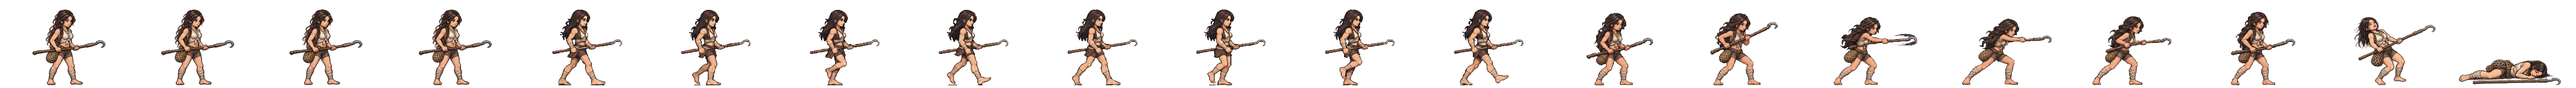
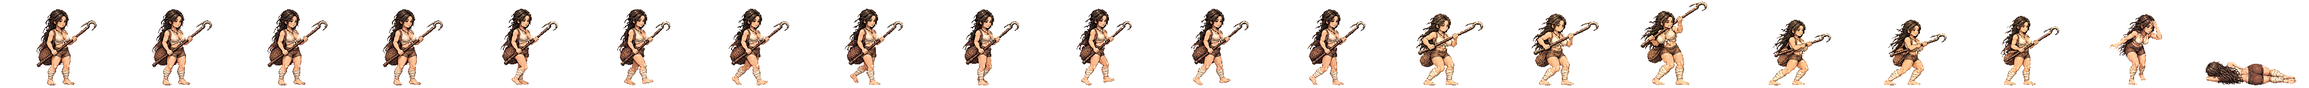
신지 너울 새 전투 띠를 게임에 넣음(서기·걷기·갈고리 장대 찌르기 여덟 칸·쓰러짐·젖은 머리 짜기)
가슴 XL 뼈대로 처음 넣는 장수. 서기·걷기·개성 동작에서 가슴 부피가 서기 장면의 대머리 몸만큼 유지된다.
찌르기 a 는 칸3 앞발이 인형보다 앞이라 한 번 다시, b 는 갈고리가 넓은 칸 밖으로 나가 한 번 다시 그렸다.
하네스 HEROES 에 이번 묶음 장수(너울·허황옥·마한 전사·고래 여왕·말괄량이 장군)를 더함.

Claude-Session: https://claude.ai/code/session_01TRiuN7s6aDfSnaHxrkctmU

Changed region(s): [[0.0, 0.125, 1.0, 0.9688], [0.7188, 0.0312, 0.75, 0.0625]]

diff --git a/src/realm/data/spritePx.ts b/src/realm/data/spritePx.ts
@@ -1,3 +1,3 @@
 /** public/realm/anim-px/manifest.json 의 사본 — tools/sprite-normalize.mjs 가 만든다 (손으로 고치지 말 것). 칸 [가로, 세로] · feet = 발 줄(칸 위에서 y) · bodyPx = 서 있는 몸 키 */
 import { expandManifest } from './sprite-manifest.ts'
-export const SPRITE_PX: Readonly<Record<string, { readonly cell: readonly [number, number]; readonly feet: number; readonly bodyPx: number; readonly kind: 'general' | 'soldier' | 'folk' | 'crowd'; readonly cells: number }>> = expandManifest<{ readonly cell: readonly [number, number]; readonly feet: number; readonly bodyPx: number; readonly kind: 'general' | 'soldier' | 'folk' | 'crowd'; readonly cells: number }>([{"cell":[166,128],"feet":126,"bodyPx":124,"kind":"soldier","cells":20},{"cell":[116,128],"feet":126,"bodyPx":117,"kind":"soldier","cells":20},{"cell":[127,128],"feet":126,"bodyPx":116,"kind":"soldier","cells":20},{"cell":[269,128],"feet":126,"bodyPx":126,"kind":"soldier","cells":20},{"cell":[503,128],"feet":126,"bodyPx":127,"kind":"soldier","cells":20},{"cell":[614,128],"feet":126,"bodyPx":126,"kind":"soldier","cells":20},{"cell":[200,160],"feet":156,"bodyPx":138,"kind":"general","cells":20},{"cell":[208,160],"feet":155,"bodyPx":138,"kind":"general","cells":20},{"cell":[208,160],"feet":154,"bodyPx":138,"kind":"general","cells":20},{"cell":[304,160],"feet":155,"bodyPx":135,"kind":"general","cells":20},{"cell":[224,160],"feet":156,"bodyPx":139,"kind":"general","cells":20},{"cell":[184,160],"feet":156,"bodyPx":138,"kind":"general","cells":20},{"cell":[208,160],"feet":154,"bodyPx":136,"kind":"general","cells":20},{"cell":[240,160],"feet":156,"bodyPx":138,"kind":"general","cells":20},{"cell":[232,160],"feet":156,"bodyPx":138,"kind":"general","cells":20},{"cell":[208,160],"feet":156,"bodyPx":138,"kind":"general","cells":20},{"cell":[168,160],"feet":156,"bodyPx":138,"kind":"general","cells":20},{"cell":[192,160],"feet":156,"bodyPx":138,"kind":"general","cells":20},{"cell":[168,160],"feet":156,"bodyPx":124,"kind":"general","cells":20},{"cell":[216,160],"feet":156,"bodyPx":130,"kind":"general","cells":20},{"cell":[200,160],"feet":156,"bodyPx":116,"kind":"general","cells":20},{"cell":[200,160],"feet":156,"bodyPx":135,"kind":"general","cells":20},{"cell":[280,160],"feet":156,"bodyPx":138,"kind":"general","cells":20},{"cell":[232,160],"feet":155,"bodyPx":138,"kind":"general","cells":20},{"cell":[232,160],"feet":156,"bodyPx":134,"kind":"general","cells":20},{"cell":[144,160],"feet":156,"bodyPx":70,"kind":"general","cells":20},{"cell":[208,160],"feet":156,"bodyPx":70,"kind":"general","cells":20},{"cell":[192,160],"feet":156,"bodyPx":70,"kind":"general","cells":20},{"cell":[240,160],"feet":155,"bodyPx":138,"kind":"general","cells":20},{"cell":[160,160],"feet":156,"bodyPx":135,"kind":"general","cells":20},{"cell":[192,160],"feet":156,"bodyPx":128,"kind":"general","cells":20},{"cell":[224,160],"feet":155,"bodyPx":138,"kind":"general","cells":20},{"cell":[232,160],"feet":156,"bodyPx":139,"kind":"general","cells":20},{"cell":[264,160],"feet":155,"bodyPx":138,"kind":"general","cells":20},{"cell":[216,160],"feet":156,"bodyPx":138,"kind":"general","cells":20},{"cell":[208,160],"feet":156,"bodyPx":134,"kind":"general","cells":20},{"cell":[176,160],"feet":156,"bodyPx":130,"kind":"general","cells":20},{"cell":[248,160],"feet":156,"bodyPx":138,"kind":"general","cells":20},{"cell":[248,160],"feet":155,"bodyPx":138,"kind":"general","cells":20},{"cell":[192,160],"feet":155,"bodyPx":138,"kind":"general","cells":20},{"cell":[192,160],"feet":156,"bodyPx":124,"kind":"general","cells":20},{"cell":[208,160],"feet":154,"bodyPx":131,"kind":"general","cells":20},{"cell":[256,160],"feet":156,"bodyPx":138,"kind":"general","cells":20},{"cell":[232,160],"feet":156,"bodyPx":73,"kind":"general","cells":20},{"cell":[256,160],"feet":155,"bodyPx":138,"kind":"general","cells":20},{"cell":[264,160],"feet":156,"bodyPx":138,"kind":"general","cells":20},{"cell":[224,160],"feet":156,"bodyPx":138,"kind":"general","cells":20},{"cell":[224,160],"feet":156,"bodyPx":128,"kind":"general","cells":20},{"cell":[176,160],"feet":156,"bodyPx":129,"kind":"general","cells":20},{"cell":[208,160],"feet":154,"bodyPx":139,"kind":"general","cells":20},{"cell":[208,160],"feet":156,"bodyPx":132,"kind":"general","cells":20},{"cell":[216,160],"feet":155,"bodyPx":138,"kind":"general","cells":20},{"cell":[184,160],"feet":156,"bodyPx":122,"kind":"general","cells":20},{"cell":[176,160],"feet":156,"bodyPx":138,"kind":"general","cells":20},{"cell":[280,160],"feet":155,"bodyPx":133,"kind":"general","cells":20},{"cell":[176,160],"feet":156,"bodyPx":70,"kind":"general","cells":20},{"cell":[186,128],"feet":126,"bodyPx":127,"kind":"soldier","cells":20},{"cell":[298,128],"feet":126,"bodyPx":126,"kind":"soldier","cells":20},{"cell":[82,128],"feet":126,"bodyPx":114,"kind":"folk","cells":8},{"cell":[134,128],"feet":126,"bodyPx":119,"kind":"soldier","cells":20},{"cell":[380,128],"feet":126,"bodyPx":124,"kind":"soldier","cells":20},{"cell":[114,128],"feet":126,"bodyPx":115,"kind":"soldier","cells":20},{"cell":[122,128],"feet":126,"bodyPx":114,"kind":"soldier","cells":20},{"cell":[254,128],"feet":126,"bodyPx":128,"kind":"soldier","cells":20},{"cell":[438,128],"feet":126,"bodyPx":126,"kind":"soldier","cells":20},{"cell":[88,128],"feet":126,"bodyPx":113,"kind":"folk","cells":8},{"cell":[100,128],"feet":126,"bodyPx":115,"kind":"folk","cells":8},{"cell":[108,128],"feet":126,"bodyPx":115,"kind":"folk","cells":8},{"cell":[63,128],"feet":126,"bodyPx":113,"kind":"folk","cells":8},{"cell":[69,96],"feet":96,"bodyPx":96,"kind":"crowd","cells":1},{"cell":[54,96],"feet":96,"bodyPx":96,"kind":"crowd","cells":1},{"cell":[47,96],"feet":96,"bodyPx":96,"kind":"crowd","cells":1},{"cell":[49,96],"feet":96,"bodyPx":96,"kind":"crowd","cells":1},{"cell":[57,96],"feet":96,"bodyPx":96,"kind":"crowd","cells":1},{"cell":[55,96],"feet":96,"bodyPx":96,"kind":"crowd","cells":1},{"cell":[45,96],"feet":96,"bodyPx":96,"kind":"crowd","cells":1},{"cell":[53,96],"feet":96,"bodyPx":96,"kind":"crowd","cells":1},{"cell":[64,96],"feet":96,"bodyPx":96,"kind":"crowd","cells":1},{"cell":[184,160],"feet":156,"bodyPx":124,"kind":"general","cells":20},{"cell":[184,160],"feet":156,"bodyPx":134,"kind":"general","cells":20},{"cell":[224,160],"feet":156,"bodyPx":133,"kind":"general","cells":20},{"cell":[192,160],"feet":156,"bodyPx":135,"kind":"general","cells":20},{"cell":[184,160],"feet":156,"bodyPx":137,"kind":"general","cells":20},{"cell":[216,160],"feet":156,"bodyPx":134,"kind":"general","cells":20},{"cell":[216,160],"feet":156,"bodyPx":132,"kind":"general","cells":20},{"cell":[288,160],"feet":156,"bodyPx":138,"kind":"general","cells":20},{"cell":[192,160],"feet":156,"bodyPx":118,"kind":"general","cells":20},{"cell":[192,160],"feet":156,"bodyPx":134,"kind":"general","cells":20},{"cell":[192,160],"feet":157,"bodyPx":139,"kind":"general","cells":20},{"cell":[184,160],"feet":156,"bodyPx":128,"kind":"general","cells":20},{"cell":[240,160],"feet":156,"bodyPx":128,"kind":"general","cells":20},{"cell":[184,160],"feet":156,"bodyPx":132,"kind":"general","cells":20},{"cell":[208,160],"feet":156,"bodyPx":123,"kind":"general","cells":20},{"cell":[208,160],"feet":154,"bodyPx":137,"kind":"general","cells":20},{"cell":[176,160],"feet":156,"bodyPx":116,"kind":"general","cells":20},{"cell":[272,160],"feet":156,"bodyPx":138,"kind":"general","cells":20},{"cell":[176,160],"feet":156,"bodyPx":122,"kind":"general","cells":20},{"cell":[232,160],"feet":156,"bodyPx":127,"kind":"general","cells":20},{"cell":[176,160],"feet":156,"bodyPx":137,"kind":"general","cells":20},{"cell":[184,160],"feet":156,"bodyPx":133,"kind":"general","cells":20}],[["axe",0],["bandit-chief",1],["bandit-club",2],["boat",3],["bow",4],["crossbow",5],["gen-adogan",6],["gen-alpyeong",7],["gen-ara",8],["gen-areum",8],["gen-aryeong",9],["gen-bakdal",6],["gen-baram",10],["gen-bdanbi",11],["gen-beom",12],["gen-beombal",11],["gen-beomi",13],["gen-bira",14],["gen-biryu",15],["gen-budeul",16],["gen-byeol",17],["gen-daemusin",18],["gen-daeso",19],["gen-dallae2",11],["gen-dalli",11],["gen-damul",20],["gen-danbi",15],["gen-dangung",17],["gen-darae",21],["gen-dokmudeom",7],["gen-duman",22],["gen-eomni",23],["gen-eureum",24],["gen-g-bow",25],["gen-g-spear",26],["gen-g-sword",27],["gen-gaennae",6],["gen-gamsil",28],["gen-gaon",29],["gen-geota",15],["gen-geumbawi",11],["gen-geumha",30],["gen-goeun",15],["gen-gom",31],["gen-gomok",15],["gen-gureum",28],["gen-guryema",17],["gen-gwaeyu",14],["gen-haebi",8],["gen-haedal",6],["gen-haesol",32],["gen-halla",7],["gen-heo",33],["gen-hneoul",11],["gen-hogong",34],["gen-hojin",15],["gen-horselord",35],["gen-hwalmi",36],["gen-hyeokgeose",17],["gen-hyeopbo",6],["gen-irang",15],["gen-jibaekho",37],["gen-jinha",38],["gen-jita",39],["gen-jumong",40],["gen-keundol",7],["gen-maehwa",41],["gen-maenun",17],["gen-malgalgi",42],["gen-mari",13],["gen-maro",37],["gen-maryeo",15],["gen-mdallae",32],["gen-mir",6],["gen-mount",43],["gen-mulbeom",44],["gen-mulsae",34],["gen-musoe",34],["gen-noeul",8],["gen-nuri",45],["gen-ocheongan",46],["gen-odi",38],["gen-odogan",6],["gen-ogan",17],["gen-oi",47],["gen-olddaeso",24],["gen-onjo",48],["gen-pidogan",15],["gen-sagong",49],["gen-sdallae",6],["gen-sincheongan",34],["gen-singwigan",34],["gen-sinneoul",23],["gen-sobeol",23],["gen-soebi",6],["gen-soebo",50],["gen-soenun",37],["gen-sogeumbi",51],["gen-songbi",46],["gen-songyang",52],["gen-sori",53],["gen-soseono",54],["gen-suro",17],["gen-tahae",6],["gen-tneoul",46],["gen-w-bow",25],["gen-w-spear",55],["gen-waechief",15],["gen-wan",34],["gen-yeodogan",15],["gen-yucheongan",15],["gen-yusugan",37],["horse",56],["marine",57],["migrant",58],["militia",59],["pike",60],["pirate-captain",61],["pirate-sword",62],["shield",63],["spear",64],["villager-builder",65],["villager-farmer",66],["villager-porter",67],["villager-woman",68],["crowd-b1",69],["crowd-b2",70],["crowd-b3",71],["crowd-b4",72],["crowd-b5",73],["crowd-b6",74],["crowd-f1",69],["crowd-f2",74],["crowd-f3",75],["crowd-f4",76],["crowd-f5",69],["crowd-f6",77],["gen-dalbit",15],["gen-base-g-07-drunk-warrior",17],["gen-base-g-40-anya-adan",15],["gen-base-w-13-young-archer",8],["gen-base-g-03-sea-trader",13],["gen-base-w-10-pirate-captain",49],["gen-base-w-64-miri-dallae",49],["gen-base-g-41-goja-bau",13],["gen-base-g-42-dokro-garam",45],["gen-base-g-09-farmer-conscript",34],["gen-base-w-02-goguryeo-lady",34],["gen-base-w-17-mahan-pearl-diver",8],["gen-base-g-17-saro-isageum",50],["gen-base-g-18-daegaya-king",78],["gen-base-g-35-dabeol-dalgu",15],["gen-base-g-19-sabeol-veteran",34],["gen-base-w-23-usisan-whale-queen",34],["gen-base-g-36-gammun-gamdol",46],["gen-base-g-20-samul-sea-lord",42],["gen-base-g-37-eumjeup-jeup",11],["gen-base-g-38-chopal-palmae",17],["gen-base-w-75-daegaya-soemoe",17],["gen-base-g-45-dabeol-deulgae",11],["gen-base-g-04-jinhan-giant",15],["gen-base-g-08-veteran",15],["gen-base-w-18-jinhan-salt-widow",15],["gen-base-w-12-court-dancer",79],["gen-base-w-83-gyeonji-beodeul",80],["gen-base-w-05-baekje-queen",81],["gen-base-w-21-baekje-court-dancer",11],["gen-base-g-01-master-smith",82],["gen-base-g-93-jomun-solgae",36],["gen-base-g-57-bihwa-neup",13],["gen-base-w-72-eumjeup-beol",15],["gen-base-w-102-garak-dana",34],["gen-base-g-68-baekje-onnuri",15],["gen-base-w-27-mokji-jinha",6],["gen-base-g-22-ungcheon-gomnae",6],["gen-base-g-23-sangdang-soedal",15],["gen-base-g-24-wansan-onsan",6],["gen-base-g-25-balla-keunmoe",34],["gen-base-g-61-heomcheuk-bawi",34],["gen-base-g-88-wander-soeul",46],["gen-base-w-14-feast-spy",6],["gen-base-g-12-silla-youth",83],["gen-base-w-08-mahan-warrior",13],["gen-base-g-62-beonye-hanul",13],["gen-base-g-63-heomcheuk-beogeum",15],["gen-base-g-84-wander-seoneul",15],["gen-base-w-50-siljik-mulga",34],["gen-base-g-46-uga-nureongso",34],["gen-base-w-80-usan-gangchi",13],["gen-base-g-47-guga-sanyanggae",34],["gen-base-w-76-gampyeong-baetsagong",37],["gen-base-g-05-mahan-chieftain",84],["gen-base-g-58-usan-uhae",15],["gen-base-g-27-maek-maekdol",15],["gen-base-w-53-hwanna-gabi",16],["gen-base-w-29-golpo-janmul",37],["gen-base-g-53-baekje-haeru",6],["gen-base-w-71-yeonna-neoul",13],["gen-base-w-79-yangmaek-solmae",34],["gen-base-w-34-chopal-deulme",45],["gen-base-g-44-maga-malgup",85],["gen-base-w-31-dabeol-dalbit",49],["gen-base-g-51-biryuna-mulgyeol",46],["gen-base-g-48-gwanna-musoe",15],["gen-base-g-32-uga-sodu",14],["gen-base-g-49-goguryeo-sona",86],["gen-base-g-30-gwanna-soemoe",46],["gen-base-g-52-tamna-oreum",11],["gen-base-g-29-yeonna-myeongsol",40],["gen-base-w-56-dongokjeo-sogeum",87],["gen-base-g-54-mokji-mahan",14],["gen-base-g-33-jeoga-metdol",17],["gen-base-w-36-baekje-maena",17],["gen-base-w-38-sangdang-bulmae",6],["gen-base-w-39-gosaburi-galmae",88],["gen-base-w-40-mujin-munui",50],["gen-base-w-41-hwanna-beodeul",89],["gen-base-w-43-uga-nuri",42],["gen-base-w-45-tamna-oreumbi",11],["gen-base-g-60-golbeol-golgae",11],["gen-base-g-61-apdok-ap",34],["gen-base-g-62-gammun-gamnamu",6],["gen-base-g-63-chopal-yeoul",37],["gen-base-g-64-michuhol-sogeumkkun",13],["gen-base-g-65-sangdang-soemangchi",46],["gen-base-g-66-geonma-malbalgup",90],["gen-base-g-67-gosaburi-buri",91],["gen-base-g-68-mujin-bitgoeul",11],["gen-base-g-69-goryong-yong",46],["gen-base-g-70-siljik-pado",13],["gen-base-w-81-byeokjin-byeolbit",14],["gen-base-w-46-geonma-maru",37],["gen-base-w-48-mujin-mudeung",13],["gen-base-g-26-gampyeong-gaetbeol",14],["gen-base-g-60-eupcha-hangyeol",92],["gen-base-g-15-shaman-man",34],["gen-base-g-85-wander-ure",37],["gen-base-g-43-hwanna-amnok",15],["gen-base-g-50-bullae-gwaha",81],["gen-base-g-55-saro-bakdal",15],["gen-base-g-56-haseulla-gwahama",6],["gen-base-w-06-buyeo-huntress",93],["gen-base-w-22-dongye-tiger-huntress",8],["gen-base-w-25-bihwa-priestess",34],["gen-base-w-24-apdok-queen",11],["gen-base-w-61-iseo-sinae",15],["gen-base-w-26-iseo-tomboy-general",45],["gen-base-g-59-yangmaek-maekson",94],["gen-aw1-haebi",46],["gen-aw1-soseono",95],["gen-aw1-gamsil",11],["gen-aw1-mir",53],["gen-aw1-dangung",6],["gen-aw1-ara",46],["gen-aw1-jumong",96],["gen-aw1-onjo",97],["gen-aw1-base-w-83-gyeonji-beodeul",17],["gen-aw1-heo",45],["gen-aw1-base-g-38-chopal-palmae",6],["gen-aw1-base-w-25-bihwa-priestess",79],["gen-aw1-sori",16],["gen-aw1-gomok",6],["gen-aw1-irang",17],["gen-aw1-budeul",16],["gen-aw1-gom",13],["gen-aw1-sdallae",6],["gen-aw1-base-w-13-young-archer",6],["gen-aw1-base-w-36-baekje-maena",98],["gen-aw1-base-g-09-farmer-conscript",45],["gen-aw1-base-w-02-goguryeo-lady",99],["gen-aw1-haedal",11],["gen-aw1-hogong",6],["gen-aw1-maehwa",53],["gen-aw1-base-w-06-buyeo-huntress",14],["gen-aw1-base-w-08-mahan-warrior",46],["gen-aw1-base-w-29-golpo-janmul",46],["gen-aw1-base-w-31-dabeol-dalbit",17],["gen-aw1-base-w-38-sangdang-bulmae",16],["gen-aw1-bira",34],["gen-aw1-base-w-53-hwanna-gabi",16],["gen-aw1-base-w-56-dongokjeo-sogeum",53],["gen-aw1-base-w-72-eumjeup-beol",17],["gen-aw1-bdanbi",16],["gen-aw1-beom",11],["gen-aw1-beombal",11],["gen-aw1-byeol",17],["gen-aw1-dalli",53],["gen-aw1-malgalgi",37],["gen-aw1-sincheongan",34]])
+export const SPRITE_PX: Readonly<Record<string, { readonly cell: readonly [number, number]; readonly feet: number; readonly bodyPx: number; readonly kind: 'general' | 'soldier' | 'folk' | 'crowd'; readonly cells: number }>> = expandManifest<{ readonly cell: readonly [number, number]; readonly feet: number; readonly bodyPx: number; readonly kind: 'general' | 'soldier' | 'folk' | 'crowd'; readonly cells: number }>([{"cell":[166,128],"feet":126,"bodyPx":124,"kind":"soldier","cells":20},{"cell":[116,128],"feet":126,"bodyPx":117,"kind":"soldier","cells":20},{"cell":[127,128],"feet":126,"bodyPx":116,"kind":"soldier","cells":20},{"cell":[269,128],"feet":126,"bodyPx":126,"kind":"soldier","cells":20},{"cell":[503,128],"feet":126,"bodyPx":127,"kind":"soldier","cells":20},{"cell":[614,128],"feet":126,"bodyPx":126,"kind":"soldier","cells":20},{"cell":[200,160],"feet":156,"bodyPx":138,"kind":"general","cells":20},{"cell":[208,160],"feet":155,"bodyPx":138,"kind":"general","cells":20},{"cell":[208,160],"feet":154,"bodyPx":138,"kind":"general","cells":20},{"cell":[304,160],"feet":155,"bodyPx":135,"kind":"general","cells":20},{"cell":[224,160],"feet":156,"bodyPx":139,"kind":"general","cells":20},{"cell":[184,160],"feet":156,"bodyPx":138,"kind":"general","cells":20},{"cell":[208,160],"feet":154,"bodyPx":136,"kind":"general","cells":20},{"cell":[240,160],"feet":156,"bodyPx":138,"kind":"general","cells":20},{"cell":[232,160],"feet":156,"bodyPx":138,"kind":"general","cells":20},{"cell":[208,160],"feet":156,"bodyPx":138,"kind":"general","cells":20},{"cell":[168,160],"feet":156,"bodyPx":138,"kind":"general","cells":20},{"cell":[192,160],"feet":156,"bodyPx":138,"kind":"general","cells":20},{"cell":[168,160],"feet":156,"bodyPx":124,"kind":"general","cells":20},{"cell":[216,160],"feet":156,"bodyPx":130,"kind":"general","cells":20},{"cell":[200,160],"feet":156,"bodyPx":116,"kind":"general","cells":20},{"cell":[200,160],"feet":156,"bodyPx":135,"kind":"general","cells":20},{"cell":[280,160],"feet":156,"bodyPx":138,"kind":"general","cells":20},{"cell":[232,160],"feet":155,"bodyPx":138,"kind":"general","cells":20},{"cell":[232,160],"feet":156,"bodyPx":134,"kind":"general","cells":20},{"cell":[144,160],"feet":156,"bodyPx":70,"kind":"general","cells":20},{"cell":[208,160],"feet":156,"bodyPx":70,"kind":"general","cells":20},{"cell":[192,160],"feet":156,"bodyPx":70,"kind":"general","cells":20},{"cell":[240,160],"feet":155,"bodyPx":138,"kind":"general","cells":20},{"cell":[160,160],"feet":156,"bodyPx":135,"kind":"general","cells":20},{"cell":[192,160],"feet":156,"bodyPx":128,"kind":"general","cells":20},{"cell":[224,160],"feet":155,"bodyPx":138,"kind":"general","cells":20},{"cell":[232,160],"feet":156,"bodyPx":139,"kind":"general","cells":20},{"cell":[264,160],"feet":155,"bodyPx":138,"kind":"general","cells":20},{"cell":[216,160],"feet":156,"bodyPx":138,"kind":"general","cells":20},{"cell":[208,160],"feet":156,"bodyPx":134,"kind":"general","cells":20},{"cell":[176,160],"feet":156,"bodyPx":130,"kind":"general","cells":20},{"cell":[248,160],"feet":156,"bodyPx":138,"kind":"general","cells":20},{"cell":[248,160],"feet":155,"bodyPx":138,"kind":"general","cells":20},{"cell":[192,160],"feet":155,"bodyPx":138,"kind":"general","cells":20},{"cell":[192,160],"feet":156,"bodyPx":124,"kind":"general","cells":20},{"cell":[208,160],"feet":154,"bodyPx":131,"kind":"general","cells":20},{"cell":[256,160],"feet":156,"bodyPx":138,"kind":"general","cells":20},{"cell":[232,160],"feet":156,"bodyPx":73,"kind":"general","cells":20},{"cell":[256,160],"feet":155,"bodyPx":138,"kind":"general","cells":20},{"cell":[264,160],"feet":156,"bodyPx":138,"kind":"general","cells":20},{"cell":[224,160],"feet":156,"bodyPx":138,"kind":"general","cells":20},{"cell":[224,160],"feet":156,"bodyPx":128,"kind":"general","cells":20},{"cell":[176,160],"feet":156,"bodyPx":129,"kind":"general","cells":20},{"cell":[208,160],"feet":154,"bodyPx":139,"kind":"general","cells":20},{"cell":[208,160],"feet":156,"bodyPx":132,"kind":"general","cells":20},{"cell":[216,160],"feet":155,"bodyPx":138,"kind":"general","cells":20},{"cell":[184,160],"feet":156,"bodyPx":122,"kind":"general","cells":20},{"cell":[176,160],"feet":156,"bodyPx":138,"kind":"general","cells":20},{"cell":[280,160],"feet":155,"bodyPx":133,"kind":"general","cells":20},{"cell":[176,160],"feet":156,"bodyPx":70,"kind":"general","cells":20},{"cell":[186,128],"feet":126,"bodyPx":127,"kind":"soldier","cells":20},{"cell":[298,128],"feet":126,"bodyPx":126,"kind":"soldier","cells":20},{"cell":[82,128],"feet":126,"bodyPx":114,"kind":"folk","cells":8},{"cell":[134,128],"feet":126,"bodyPx":119,"kind":"soldier","cells":20},{"cell":[380,128],"feet":126,"bodyPx":124,"kind":"soldier","cells":20},{"cell":[114,128],"feet":126,"bodyPx":115,"kind":"soldier","cells":20},{"cell":[122,128],"feet":126,"bodyPx":114,"kind":"soldier","cells":20},{"cell":[254,128],"feet":126,"bodyPx":128,"kind":"soldier","cells":20},{"cell":[438,128],"feet":126,"bodyPx":126,"kind":"soldier","cells":20},{"cell":[88,128],"feet":126,"bodyPx":113,"kind":"folk","cells":8},{"cell":[100,128],"feet":126,"bodyPx":115,"kind":"folk","cells":8},{"cell":[108,128],"feet":126,"bodyPx":115,"kind":"folk","cells":8},{"cell":[63,128],"feet":126,"bodyPx":113,"kind":"folk","cells":8},{"cell":[69,96],"feet":96,"bodyPx":96,"kind":"crowd","cells":1},{"cell":[54,96],"feet":96,"bodyPx":96,"kind":"crowd","cells":1},{"cell":[47,96],"feet":96,"bodyPx":96,"kind":"crowd","cells":1},{"cell":[49,96],"feet":96,"bodyPx":96,"kind":"crowd","cells":1},{"cell":[57,96],"feet":96,"bodyPx":96,"kind":"crowd","cells":1},{"cell":[55,96],"feet":96,"bodyPx":96,"kind":"crowd","cells":1},{"cell":[45,96],"feet":96,"bodyPx":96,"kind":"crowd","cells":1},{"cell":[53,96],"feet":96,"bodyPx":96,"kind":"crowd","cells":1},{"cell":[64,96],"feet":96,"bodyPx":96,"kind":"crowd","cells":1},{"cell":[184,160],"feet":156,"bodyPx":124,"kind":"general","cells":20},{"cell":[184,160],"feet":156,"bodyPx":134,"kind":"general","cells":20},{"cell":[224,160],"feet":156,"bodyPx":133,"kind":"general","cells":20},{"cell":[192,160],"feet":156,"bodyPx":135,"kind":"general","cells":20},{"cell":[184,160],"feet":156,"bodyPx":137,"kind":"general","cells":20},{"cell":[216,160],"feet":156,"bodyPx":134,"kind":"general","cells":20},{"cell":[216,160],"feet":156,"bodyPx":132,"kind":"general","cells":20},{"cell":[288,160],"feet":156,"bodyPx":138,"kind":"general","cells":20},{"cell":[192,160],"feet":156,"bodyPx":118,"kind":"general","cells":20},{"cell":[192,160],"feet":156,"bodyPx":134,"kind":"general","cells":20},{"cell":[192,160],"feet":157,"bodyPx":139,"kind":"general","cells":20},{"cell":[184,160],"feet":156,"bodyPx":128,"kind":"general","cells":20},{"cell":[240,160],"feet":156,"bodyPx":128,"kind":"general","cells":20},{"cell":[184,160],"feet":156,"bodyPx":132,"kind":"general","cells":20},{"cell":[208,160],"feet":156,"bodyPx":123,"kind":"general","cells":20},{"cell":[208,160],"feet":154,"bodyPx":137,"kind":"general","cells":20},{"cell":[176,160],"feet":156,"bodyPx":116,"kind":"general","cells":20},{"cell":[272,160],"feet":156,"bodyPx":138,"kind":"general","cells":20},{"cell":[176,160],"feet":156,"bodyPx":122,"kind":"general","cells":20},{"cell":[232,160],"feet":156,"bodyPx":127,"kind":"general","cells":20},{"cell":[176,160],"feet":156,"bodyPx":137,"kind":"general","cells":20},{"cell":[184,160],"feet":156,"bodyPx":133,"kind":"general","cells":20}],[["axe",0],["bandit-chief",1],["bandit-club",2],["boat",3],["bow",4],["crossbow",5],["gen-adogan",6],["gen-alpyeong",7],["gen-ara",8],["gen-areum",8],["gen-aryeong",9],["gen-bakdal",6],["gen-baram",10],["gen-bdanbi",11],["gen-beom",12],["gen-beombal",11],["gen-beomi",13],["gen-bira",14],["gen-biryu",15],["gen-budeul",16],["gen-byeol",17],["gen-daemusin",18],["gen-daeso",19],["gen-dallae2",11],["gen-dalli",11],["gen-damul",20],["gen-danbi",15],["gen-dangung",17],["gen-darae",21],["gen-dokmudeom",7],["gen-duman",22],["gen-eomni",23],["gen-eureum",24],["gen-g-bow",25],["gen-g-spear",26],["gen-g-sword",27],["gen-gaennae",6],["gen-gamsil",28],["gen-gaon",29],["gen-geota",15],["gen-geumbawi",11],["gen-geumha",30],["gen-goeun",15],["gen-gom",31],["gen-gomok",15],["gen-gureum",28],["gen-guryema",17],["gen-gwaeyu",14],["gen-haebi",8],["gen-haedal",6],["gen-haesol",32],["gen-halla",7],["gen-heo",33],["gen-hneoul",11],["gen-hogong",34],["gen-hojin",15],["gen-horselord",35],["gen-hwalmi",36],["gen-hyeokgeose",17],["gen-hyeopbo",6],["gen-irang",15],["gen-jibaekho",37],["gen-jinha",38],["gen-jita",39],["gen-jumong",40],["gen-keundol",7],["gen-maehwa",41],["gen-maenun",17],["gen-malgalgi",42],["gen-mari",13],["gen-maro",37],["gen-maryeo",15],["gen-mdallae",32],["gen-mir",6],["gen-mount",43],["gen-mulbeom",44],["gen-mulsae",34],["gen-musoe",34],["gen-noeul",8],["gen-nuri",45],["gen-ocheongan",46],["gen-odi",38],["gen-odogan",6],["gen-ogan",17],["gen-oi",47],["gen-olddaeso",24],["gen-onjo",48],["gen-pidogan",15],["gen-sagong",49],["gen-sdallae",6],["gen-sincheongan",34],["gen-singwigan",34],["gen-sinneoul",8],["gen-sobeol",23],["gen-soebi",6],["gen-soebo",50],["gen-soenun",37],["gen-sogeumbi",51],["gen-songbi",46],["gen-songyang",52],["gen-sori",53],["gen-soseono",54],["gen-suro",17],["gen-tahae",6],["gen-tneoul",46],["gen-w-bow",25],["gen-w-spear",55],["gen-waechief",15],["gen-wan",34],["gen-yeodogan",15],["gen-yucheongan",15],["gen-yusugan",37],["horse",56],["marine",57],["migrant",58],["militia",59],["pike",60],["pirate-captain",61],["pirate-sword",62],["shield",63],["spear",64],["villager-builder",65],["villager-farmer",66],["villager-porter",67],["villager-woman",68],["crowd-b1",69],["crowd-b2",70],["crowd-b3",71],["crowd-b4",72],["crowd-b5",73],["crowd-b6",74],["crowd-f1",69],["crowd-f2",74],["crowd-f3",75],["crowd-f4",76],["crowd-f5",69],["crowd-f6",77],["gen-dalbit",15],["gen-base-g-07-drunk-warrior",17],["gen-base-g-40-anya-adan",15],["gen-base-w-13-young-archer",8],["gen-base-g-03-sea-trader",13],["gen-base-w-10-pirate-captain",49],["gen-base-w-64-miri-dallae",49],["gen-base-g-41-goja-bau",13],["gen-base-g-42-dokro-garam",45],["gen-base-g-09-farmer-conscript",34],["gen-base-w-02-goguryeo-lady",34],["gen-base-w-17-mahan-pearl-diver",8],["gen-base-g-17-saro-isageum",50],["gen-base-g-18-daegaya-king",78],["gen-base-g-35-dabeol-dalgu",15],["gen-base-g-19-sabeol-veteran",34],["gen-base-w-23-usisan-whale-queen",34],["gen-base-g-36-gammun-gamdol",46],["gen-base-g-20-samul-sea-lord",42],["gen-base-g-37-eumjeup-jeup",11],["gen-base-g-38-chopal-palmae",17],["gen-base-w-75-daegaya-soemoe",17],["gen-base-g-45-dabeol-deulgae",11],["gen-base-g-04-jinhan-giant",15],["gen-base-g-08-veteran",15],["gen-base-w-18-jinhan-salt-widow",15],["gen-base-w-12-court-dancer",79],["gen-base-w-83-gyeonji-beodeul",80],["gen-base-w-05-baekje-queen",81],["gen-base-w-21-baekje-court-dancer",11],["gen-base-g-01-master-smith",82],["gen-base-g-93-jomun-solgae",36],["gen-base-g-57-bihwa-neup",13],["gen-base-w-72-eumjeup-beol",15],["gen-base-w-102-garak-dana",34],["gen-base-g-68-baekje-onnuri",15],["gen-base-w-27-mokji-jinha",6],["gen-base-g-22-ungcheon-gomnae",6],["gen-base-g-23-sangdang-soedal",15],["gen-base-g-24-wansan-onsan",6],["gen-base-g-25-balla-keunmoe",34],["gen-base-g-61-heomcheuk-bawi",34],["gen-base-g-88-wander-soeul",46],["gen-base-w-14-feast-spy",6],["gen-base-g-12-silla-youth",83],["gen-base-w-08-mahan-warrior",13],["gen-base-g-62-beonye-hanul",13],["gen-base-g-63-heomcheuk-beogeum",15],["gen-base-g-84-wander-seoneul",15],["gen-base-w-50-siljik-mulga",34],["gen-base-g-46-uga-nureongso",34],["gen-base-w-80-usan-gangchi",13],["gen-base-g-47-guga-sanyanggae",34],["gen-base-w-76-gampyeong-baetsagong",37],["gen-base-g-05-mahan-chieftain",84],["gen-base-g-58-usan-uhae",15],["gen-base-g-27-maek-maekdol",15],["gen-base-w-53-hwanna-gabi",16],["gen-base-w-29-golpo-janmul",37],["gen-base-g-53-baekje-haeru",6],["gen-base-w-71-yeonna-neoul",13],["gen-base-w-79-yangmaek-solmae",34],["gen-base-w-34-chopal-deulme",45],["gen-base-g-44-maga-malgup",85],["gen-base-w-31-dabeol-dalbit",49],["gen-base-g-51-biryuna-mulgyeol",46],["gen-base-g-48-gwanna-musoe",15],["gen-base-g-32-uga-sodu",14],["gen-base-g-49-goguryeo-sona",86],["gen-base-g-30-gwanna-soemoe",46],["gen-base-g-52-tamna-oreum",11],["gen-base-g-29-yeonna-myeongsol",40],["gen-base-w-56-dongokjeo-sogeum",87],["gen-base-g-54-mokji-mahan",14],["gen-base-g-33-jeoga-metdol",17],["gen-base-w-36-baekje-maena",17],["gen-base-w-38-sangdang-bulmae",6],["gen-base-w-39-gosaburi-galmae",88],["gen-base-w-40-mujin-munui",50],["gen-base-w-41-hwanna-beodeul",89],["gen-base-w-43-uga-nuri",42],["gen-base-w-45-tamna-oreumbi",11],["gen-base-g-60-golbeol-golgae",11],["gen-base-g-61-apdok-ap",34],["gen-base-g-62-gammun-gamnamu",6],["gen-base-g-63-chopal-yeoul",37],["gen-base-g-64-michuhol-sogeumkkun",13],["gen-base-g-65-sangdang-soemangchi",46],["gen-base-g-66-geonma-malbalgup",90],["gen-base-g-67-gosaburi-buri",91],["gen-base-g-68-mujin-bitgoeul",11],["gen-base-g-69-goryong-yong",46],["gen-base-g-70-siljik-pado",13],["gen-base-w-81-byeokjin-byeolbit",14],["gen-base-w-46-geonma-maru",37],["gen-base-w-48-mujin-mudeung",13],["gen-base-g-26-gampyeong-gaetbeol",14],["gen-base-g-60-eupcha-hangyeol",92],["gen-base-g-15-shaman-man",34],["gen-base-g-85-wander-ure",37],["gen-base-g-43-hwanna-amnok",15],["gen-base-g-50-bullae-gwaha",81],["gen-base-g-55-saro-bakdal",15],["gen-base-g-56-haseulla-gwahama",6],["gen-base-w-06-buyeo-huntress",93],["gen-base-w-22-dongye-tiger-huntress",8],["gen-base-w-25-bihwa-priestess",34],["gen-base-w-24-apdok-queen",11],["gen-base-w-61-iseo-sinae",15],["gen-base-w-26-iseo-tomboy-general",45],["gen-base-g-59-yangmaek-maekson",94],["gen-aw1-haebi",46],["gen-aw1-soseono",95],["gen-aw1-gamsil",11],["gen-aw1-mir",53],["gen-aw1-dangung",6],["gen-aw1-ara",46],["gen-aw1-jumong",96],["gen-aw1-onjo",97],["gen-aw1-base-w-83-gyeonji-beodeul",17],["gen-aw1-heo",45],["gen-aw1-base-g-38-chopal-palmae",6],["gen-aw1-base-w-25-bihwa-priestess",79],["gen-aw1-sori",16],["gen-aw1-gomok",6],["gen-aw1-irang",17],["gen-aw1-budeul",16],["gen-aw1-gom",13],["gen-aw1-sdallae",6],["gen-aw1-base-w-13-young-archer",6],["gen-aw1-base-w-36-baekje-maena",98],["gen-aw1-base-g-09-farmer-conscript",45],["gen-aw1-base-w-02-goguryeo-lady",99],["gen-aw1-haedal",11],["gen-aw1-hogong",6],["gen-aw1-maehwa",53],["gen-aw1-base-w-06-buyeo-huntress",14],["gen-aw1-base-w-08-mahan-warrior",46],["gen-aw1-base-w-29-golpo-janmul",46],["gen-aw1-base-w-31-dabeol-dalbit",17],["gen-aw1-base-w-38-sangdang-bulmae",16],["gen-aw1-bira",34],["gen-aw1-base-w-53-hwanna-gabi",16],["gen-aw1-base-w-56-dongokjeo-sogeum",53],["gen-aw1-base-w-72-eumjeup-beol",17],["gen-aw1-bdanbi",16],["gen-aw1-beom",11],["gen-aw1-beombal",11],["gen-aw1-byeol",17],["gen-aw1-dalli",53],["gen-aw1-malgalgi",37],["gen-aw1-sincheongan",34]])

diff --git a/src/duel/view.ts b/src/duel/view.ts
@@ -100,7 +100,7 @@ const crowdFront = [1, 2, 3, 4, 5, 6].map((i) => img(`realm/duel/crowd/b${i}.png
 const crowdReady = (set: HTMLImageElement[]): boolean => set.every((im) => im.complete && im.naturalWidth > 0)
 const pxMode = cfg.px !== false && params.get('px') !== '0'
 /** 겨루기 전용 옛 띠(duel/sprites) 대신 열전과 같은 도트 띠(anim-px)를 쓰는 장수 — 두 판에서 같은 모습 · 서기 계획·쓰러지는 칸도 같다 (11-23 범 · 매화 · 달빛 · 11-24 해비 · 아룸) */
-const PX_DUEL: ReadonlySet<string> = new Set(['beom', 'maehwa', 'base-w-31-dabeol-dalbit', 'haebi', 'areum', 'base-w-13-young-archer', 'base-w-10-pirate-captain', 'base-w-17-mahan-pearl-diver', 'base-w-06-buyeo-huntress', 'base-w-64-miri-dallae', 'ara', 'base-w-22-dongye-tiger-huntress', 'noeul', 'sagong'])
+const PX_DUEL: ReadonlySet<string> = new Set(['beom', 'maehwa', 'base-w-31-dabeol-dalbit', 'haebi', 'areum', 'base-w-13-young-archer', 'base-w-10-pirate-captain', 'base-w-17-mahan-pearl-diver', 'base-w-06-buyeo-huntress', 'base-w-64-miri-dallae', 'ara', 'base-w-22-dongye-tiger-huntress', 'noeul', 'sagong', 'sinneoul'])
 /** 띠 그림 — 기본은 anim-px(도트 규격) 먼저, 없으면 옛 띠로 (img 의 onerror 가 갈아 끼운다) */
 const strip = (s: string): HTMLImageElement => pxMode
   ? DUEL_ATLASES[s] !== undefined && !PX_DUEL.has(s) ? img(`realm/duel/sprites/gen-${s}.png`, `realm/anim-px/gen-${s}.png`)

diff --git a/src/tune/params.ts b/src/tune/params.ts
@@ -1424,6 +1424,7 @@ export const HAEBI_IDLE = {
     'base-w-22-dongye-tiger-huntress': { cells: 34, base: [0, 1], hold: 2.4, fall: [18, 20, 21, 19], quirk: [22, 23, 24, 25], quirkTimes: [.3, .32, .4, .28], attack: { cells: [26, 27, 28, 29, 30, 31, 32, 33], times: [.09, .08, .11, .05, .15, .07, .08, .12], hit: 4 }, xGeom: { h: 224, root: 92, foot: 216 } },
     noeul: { cells: 26, base: [0, 1], hold: 2.4, fall: [18, 20, 21, 19], quirk: [22, 23, 24, 25], quirkTimes: [.28, .3, .42, .25] },
     sagong: { cells: 34, base: [0, 1], hold: 2.4, fall: [18, 20, 21, 19], quirk: [22, 23, 24, 25], quirkTimes: [.3, .32, .4, .28], attack: { cells: [26, 27, 28, 29, 30, 31, 32, 33], times: [.09, .08, .11, .05, .15, .07, .08, .12], hit: 4 }, xGeom: { h: 224, root: 92, foot: 216 } },
+    sinneoul: { cells: 34, base: [0, 1], hold: 2.4, fall: [18, 20, 21, 19], quirk: [22, 23, 24, 25], quirkTimes: [.3, .32, .4, .28], attack: { cells: [26, 27, 28, 29, 30, 31, 32, 33], times: [.09, .08, .11, .05, .15, .07, .08, .12], hit: 4 }, xGeom: { h: 224, root: 92, foot: 216 } },
   },
 } as const
 export const HAEBI_ANIM = {

diff --git a/tools/sprite-kit/anim-harness.py b/tools/sprite-kit/anim-harness.py
@@ -45,6 +45,11 @@ HEROES = {
     'noeul': dict(strip='gen-noeul', atk='bow', atk8=False),   # 사로 노을(활)
     'sagong': dict(strip='gen-sagong', atk='thrust', atk8=True, act=True, legacy=(('a', 2), ('a', 3), ('b', 3), ('b', 4))),   # 사물 사공(두 손 노 · 찌르기)
     'songbi': dict(strip='gen-songbi', atk='bow', atk8=False),   # 비류나 송비(활)
+    'sinneoul': dict(strip='gen-sinneoul', atk='thrust', atk8=True, act=True, legacy=(('a', 2), ('a', 3), ('b', 3), ('b', 4))),   # 신지 너울(두 손 갈고리 장대 · 가슴 XL)
+    'heo': dict(strip='gen-heo', atk='thrust', atk8=True, act=True, legacy=(('a', 2), ('a', 3), ('b', 3), ('b', 4))),   # 가락 허황옥(금빛 창 · 가슴 L)
+    'mwarrior': dict(strip='gen-base-w-08-mahan-warrior', atk='thrust', atk8=True, act=True, legacy=(('a', 2), ('a', 3), ('b', 3), ('b', 4))),   # 마한 전사(창 · 우람한 뼈대)
+    'whaleq': dict(strip='gen-base-w-23-usisan-whale-queen', atk='thrust', atk8=True, act=True, legacy=(('a', 2), ('a', 3), ('b', 3), ('b', 4))),   # 우시산 고래 여왕(미늘 작살 · 우람한 뼈대)
+    'tomboy': dict(strip='gen-base-w-26-iseo-tomboy-general', atk='thrust', atk8=True, act=True, legacy=(('a', 2), ('a', 3), ('b', 3), ('b', 4))),   # 이서 말괄량이 장군(창 · 우람한 뼈대)
     'haebi': dict(strip='gen-haebi', atk='chop', atk8=True, act=True),   # act = 공격 여덟 칸이 넓은 동작 칸(240×224 · 뿌리 92 · 발 줄 216)
     'areum': dict(strip='gen-areum', atk='slam', atk8=True, act=True, lock='none'),   # 받은 그림 그대로(얼굴을 떠다 붙이지 않는다 — 11-24: 뭉친 얼굴이 여덟 칸에 퍼졌다) · 옛 lock='face': 메가 머리 뒤로 지나간다 — 머리 상자는 메를 자르고(「포스터」), 윗몸을 통째로 묶으면 떠다닌다(11-24 형) → 얼굴 안쪽만 묶는다
 }
